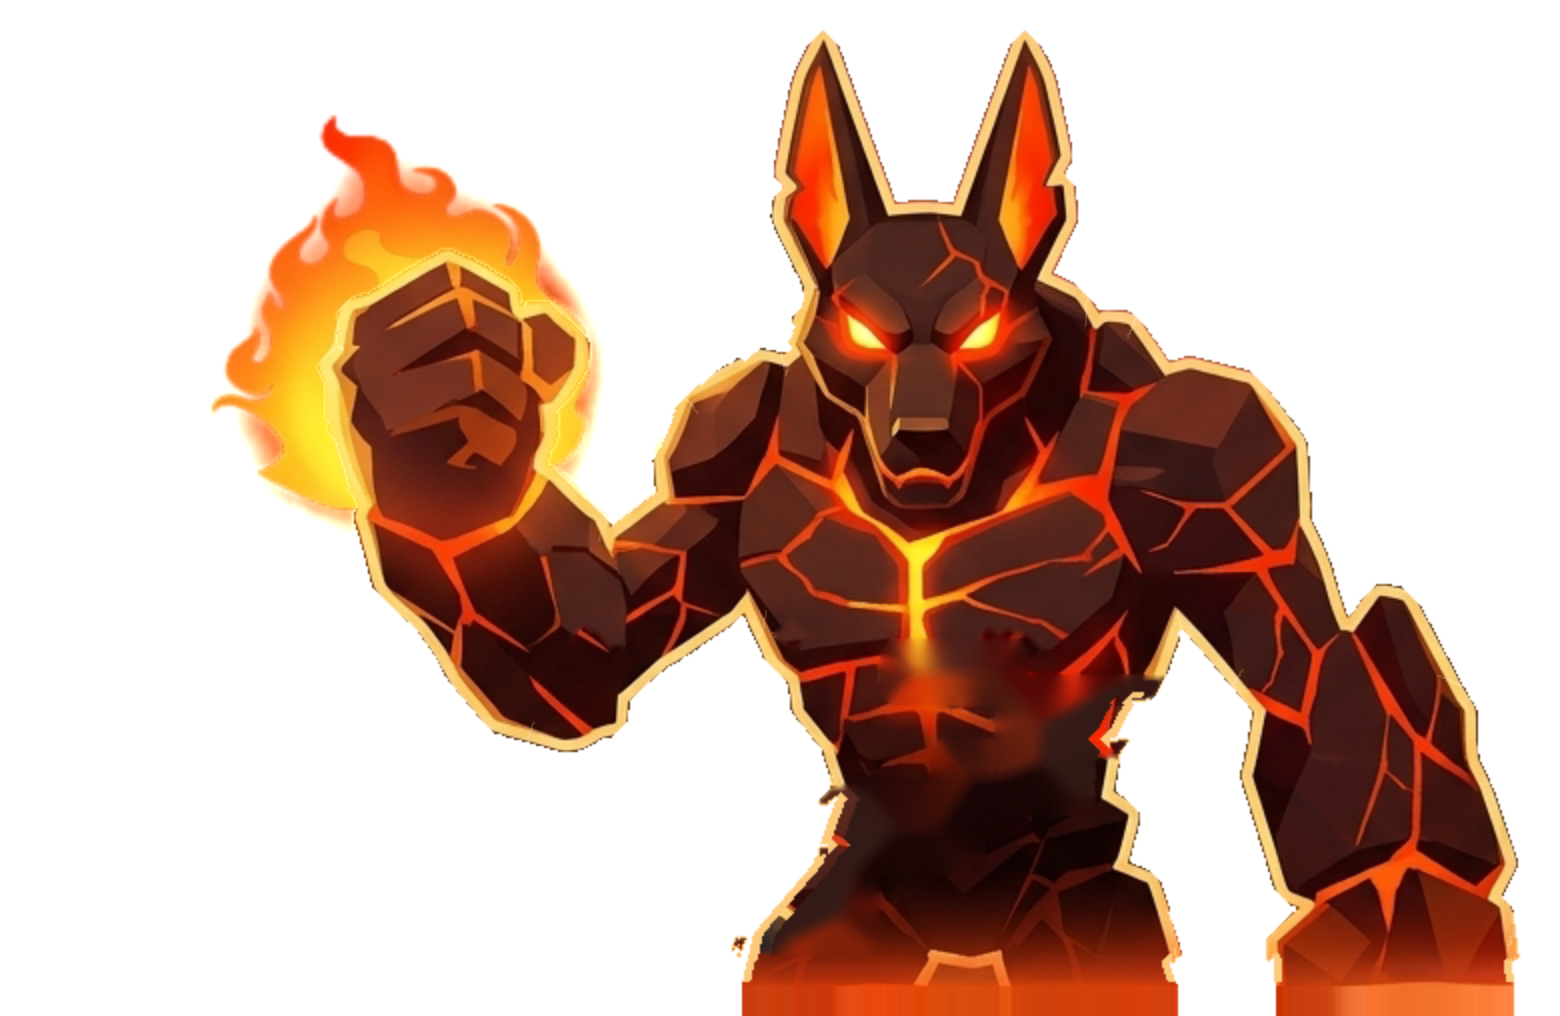
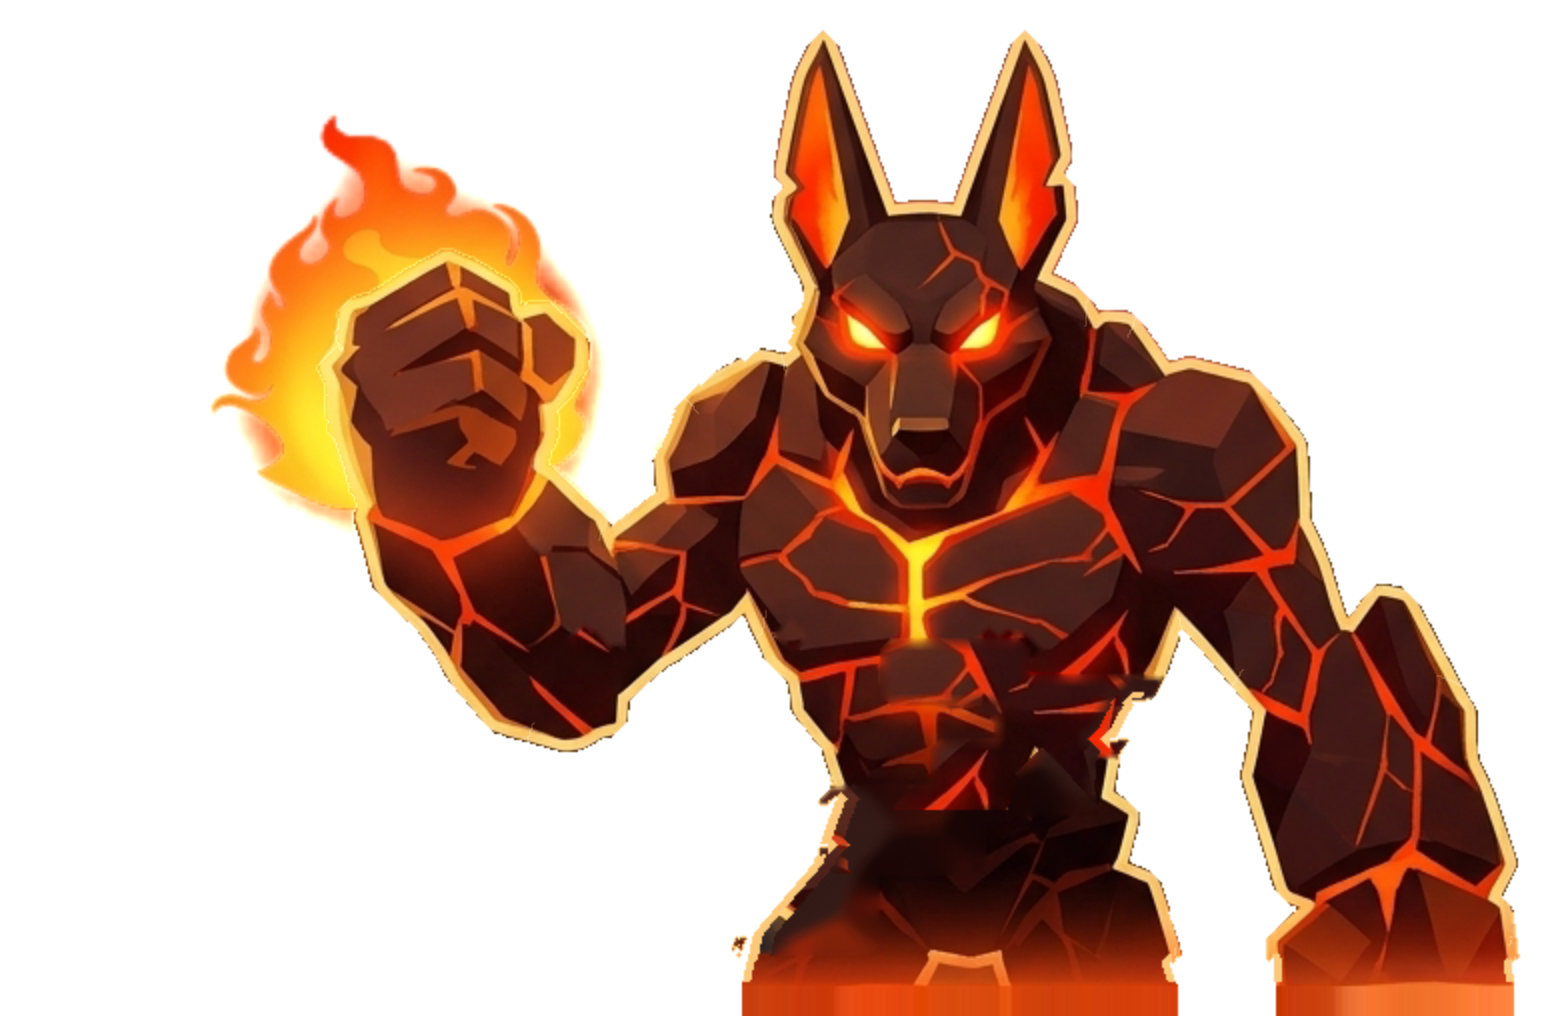
checker r2 iter 12: cracked rock, not a smudge, where TARGET's slabs were
Claude-Session: https://claude.ai/code/session_012LmehBPujySgAnyC4BLP3j

Changed region(s): [[0.5538, 0.6102, 0.7077, 0.8238]]

diff --git a/tools/beast_rig.py b/tools/beast_rig.py
@@ -207,8 +207,41 @@ def paint_hidden(T, m, line, walls):
         hard = ndi.binary_dilation(rects, iterations=5) & m & ~rim
         src = patch.copy()
         src[rim | ~m] = ROCK_DARK
-        filled = cv2.inpaint(src, hard.astype(np.uint8) * 255, 9, cv2.INPAINT_TELEA)
-        patch[hard] = filled[hard]
+        filled = cv2.inpaint(src, hard.astype(np.uint8) * 255, 9, cv2.INPAINT_TELEA).astype(float)
+        # The inpaint alone is a dark smudge (r2 iter 12: "a smoky column over
+        # the belly", both critics). So each hole takes TARGET's own cracked
+        # rock from the cleanest nearby offset, laid over the smudge with a
+        # feathered edge: cracks and facets, no pasted rectangle.
+        okay = m & ~rim & ~ndi.binary_dilation(rects | stone, iterations=4)
+        okay[CUT - 20:] = False
+        H2, W2 = m.shape
+        holes2, n2 = ndi.label(hard)
+        yellow = (T[..., 0] > 225) & (T[..., 1] > 170)
+        feather = np.clip(ndi.distance_transform_edt(hard) / 7.0, 0, 1)
+        for i in range(1, n2 + 1):
+            ys, xs = np.nonzero(holes2 == i)
+            best, score = None, -1e9
+            # Never straight up: from the belly's centre line that lands on the
+            # sternum seam and paints a second one.
+            for dx, dy in [(-90, -40), (90, -40), (-110, 0), (110, 0), (-70, -70), (70, -70),
+                           (-140, -30), (140, -30), (-60, 30), (60, 30)]:
+                sy, sx = ys + dy, xs + dx
+                inb = (sy >= 0) & (sy < H2) & (sx >= 0) & (sx < W2)
+                good = np.zeros_like(inb)
+                good[inb] = okay[sy[inb], sx[inb]]
+                # No borrowed sternum: a second bright Y down the belly is
+                # worse than plain rock.
+                heat2 = yellow[np.clip(sy, 0, H2 - 1), np.clip(sx, 0, W2 - 1)].mean()
+                sc = good.mean() - 6.0 * heat2
+                if sc > score:
+                    best, score = (dx, dy), sc
+            dx, dy = best
+            sy, sx = np.clip(ys + dy, 0, H2 - 1), np.clip(xs + dx, 0, W2 - 1)
+            src_px = T[sy, sx].astype(float)
+            use = okay[sy, sx][:, None]
+            a = feather[ys, xs][:, None]
+            filled[ys, xs] = np.where(use, filled[ys, xs] * (1 - a) + src_px * a, filled[ys, xs])
+        patch[hard] = np.clip(filled[hard], 0, 255).astype(np.uint8)
     out = patch.astype(float)
     # The silhouette's own line, wherever the cut-out has none (behind the
     # stones, where the walls run): a band as wide as TARGET's rim.

diff --git a/design/match-log/log.md b/design/match-log/log.md
@@ -97,3 +97,10 @@ Waiting for the builder's `## Round 2` heading.
 - Changed: the torso seam (both #1). It was the ghost of TARGET's own slab left on the belly by `tools/beast_rig.py` — its grey test missed the slabs' orange-lit undersides — with the borrowed patch beside it ending in a hard edge. New `STONES` in beast_rig.py: TARGET's five body slabs as hand-read rects, always counted as stone, and filled by inpainting from the rock round them with the gold rim masked out (borrowed blocks there read as pasted rectangles with a second sternum seam). Regenerated `cinder_jackal_2d.png` / `_torso.png`; the slab ghost and the seam are gone. The dotted speckle columns look like ember particles, not the sprite; left for now.
 - Tests: ALL TESTS PASSED. Art only.
 - Meshy: 0 credits.
+
+### iter 12
+- Critic A top 3: [MAJOR] stones — bottom two too big and thick, staircase a near-vertical stack; [MAJOR] a dark smoky blob with speckles over the lower belly; [MAJOR] hand ~1.4x too big, covers the pedestal.
+- Critic B top 3: [MAJOR] a dark smoke column over the abdomen and waist under the stones; [MAJOR] fist fire a round disc; [MAJOR] HUD and hand ~1.5x too big.
+- Changed: the belly smudge (A #2, B #1). Iter 11's inpaint filled the slab holes with a dark blur. `beast_rig.py` now lays TARGET's own cracked rock over each hole from the cleanest sideways/diagonal offset (never straight up — that lands on the sternum and paints a second Y; a yellow-heat penalty too), feathered 7 px into the inpaint. Regenerated `cinder_jackal_2d.png` / `_torso.png`.
+- Tests: ALL TESTS PASSED. Art only.
+- Meshy: 0 credits.
